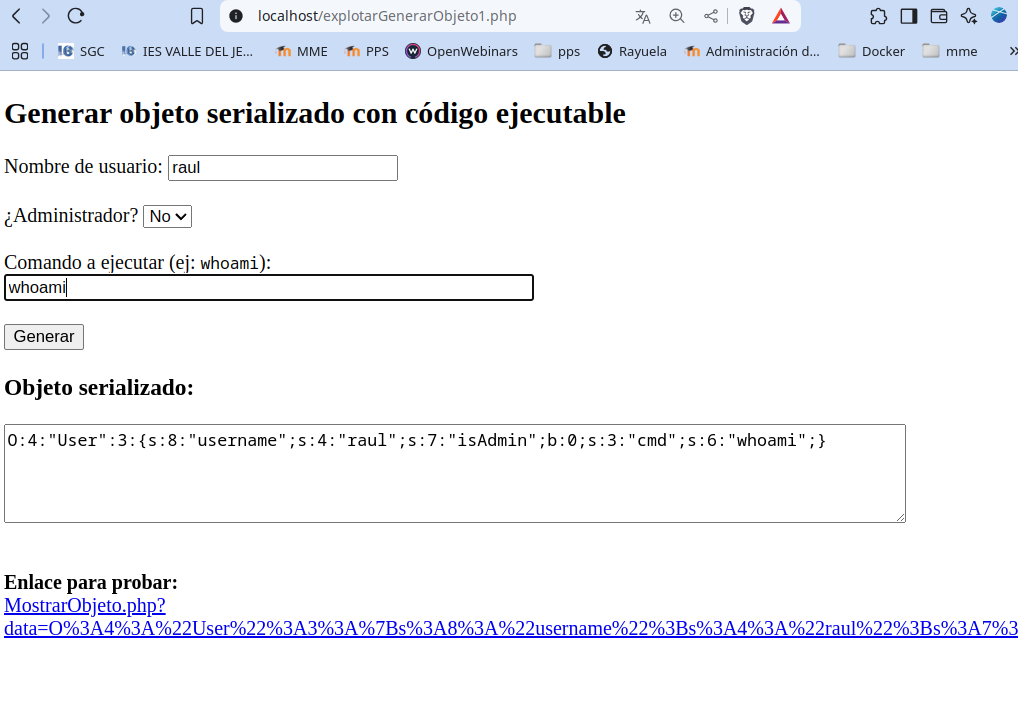
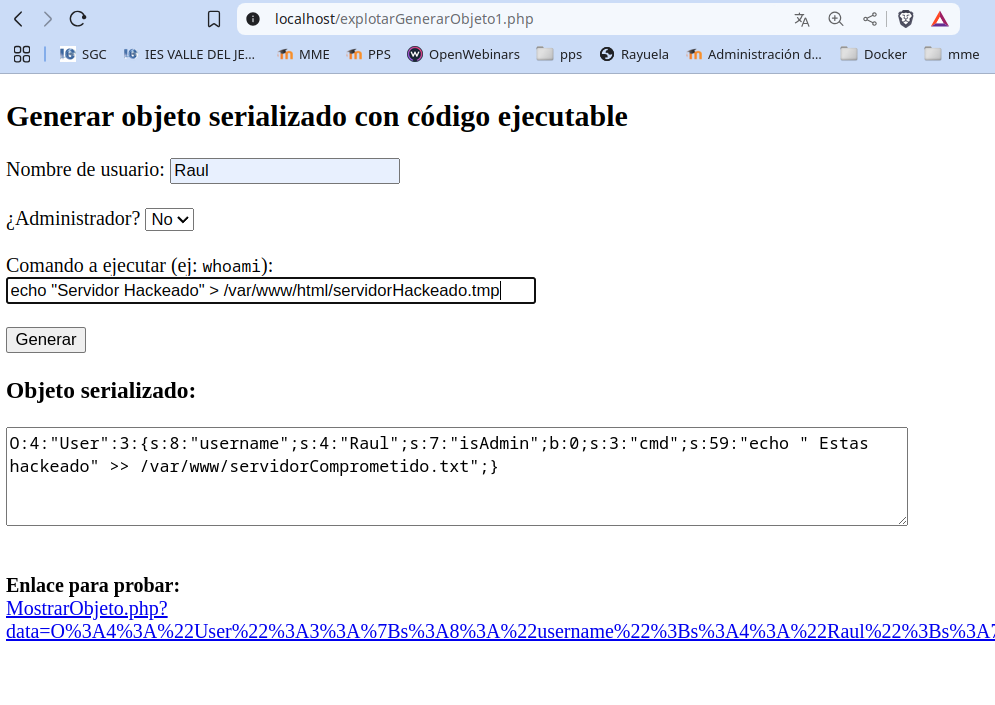
anadiendo contenido

diff --git a/README.md b/README.md
@@ -209,6 +209,7 @@ Como podemos ver, del enlace generado, cualquier persona puede saber, el nombre 
 
 Por ejemplo, el usuario Raul podría:
 
+
 **1 - Modificar la serialización**
 
 El objeto serializado es: MostrarObjeto.php?data=O%3A4%3A%22User%22%3A2%3A%7Bs%3A8%3A%22username%22%3Bs%3A4%3A%22Raul%22%3Bs%3A7%3A%22isAdmin%22%3Bb%3A**0**%3B%7D
@@ -261,7 +262,7 @@ http://localhost/MostrarObjdeto.php?data=O%3A4%3A%22User%22%3A2%3A%7Bs%3A8%3A%22
 
 Si la clase User tiene un método __destruct(), se puede abusar para ejecutar código en el servidor.
 
-Aquí tenemos nuestra clase modificada con Destruct(). Crea el fichero **GenerarObjeto1.php
+Aquí tenemos nuestra clase modificada con Destruct(). Crea el fichero **GenerarObjeto1.php**
 
 
 ~~~
@@ -317,7 +318,7 @@ if ($_SERVER['REQUEST_METHOD'] === 'POST') {
 
         <p>
             <strong>Enlace para probar:</strong><br>
-            <a href="MostrarObjeto.php?data=<?= urlencode($serialized) ?>" target="_blank">
+            <a href="MostrarObjeto1.php?data=<?= urlencode($serialized) ?>" target="_blank">
                 MostrarObjeto.php?data=<?= htmlspecialchars(urlencode($serialized)) ?>
             </a>
         </p>
@@ -332,17 +333,8 @@ Este cambio introduce:
 - Una nueva propiedad $cmd que contendrá el comando a ejecutar.
 
 - El método __destruct() que se dispara automáticamente al final del script (cuando el objeto es destruido), lo que lo hace perfecto para ilustrar la explotación por deserialización.
-~~~
 
-class Exploit {
-	public $cmd;
-	public function __destruct() {
-		system($this->cmd);
-	}
-}
-~~~
-
-VAmos a modificar el objeto malicioso para introducir un código a ejecutar. Este archivo lo llamo *explotarGenerarObjeto1.php**:
+Vamos a modificar el objeto malicioso para introducir un código a ejecutar. El atacante de esta manera, podría serializar el objeto introduciendo un código para ejecutar en nuestro servidor, Este archivo lo llamo *explotarGenerarObjeto1.php**:
 
 ~~~
 <?php
@@ -403,7 +395,7 @@ if ($_SERVER['REQUEST_METHOD'] === 'POST') {
 
         <p>
             <strong>Enlace para probar:</strong><br>
-            <a href="MostrarObjeto.php?data=<?= urlencode($serialized) ?>" target="_blank">
+            <a href="MostrarObjeto1.php?data=<?= urlencode($serialized) ?>" target="_blank">
                 MostrarObjeto.php?data=<?= htmlspecialchars(urlencode($serialized)) ?>
             </a>
         </p>
@@ -422,7 +414,23 @@ if ($_SERVER['REQUEST_METHOD'] === 'POST') {
 
 4. Al deserializarlo en MostrarObjeto.php, se ejecuta automáticamente en el __destruct().
 
-![](images/UD.png)
+![](images/UD7.png)
+
+El atacante habría inyectado en la serialización la ejecución del comando `ls -l /tmp/output.txt`pero podría haber sido cualquier otro comando.
+
+![](images/UD8.png)
+
+Vemos en el resultado que la ejecución no parece anómalo, pero veamos que ha pasado en el servidor.
+
+![](images/UD9.png)
+
+Veamos que contiene el archivo `/tmp/output.txt`. 
+
+Como nosotros extamos usando docker, o bien entramos dentros del servidor apacher y vemos el archivo, o ejecutamos el siguiente comando docker para que nos lo muestre:
+
+~~~
+
+~~~
 
 
 
